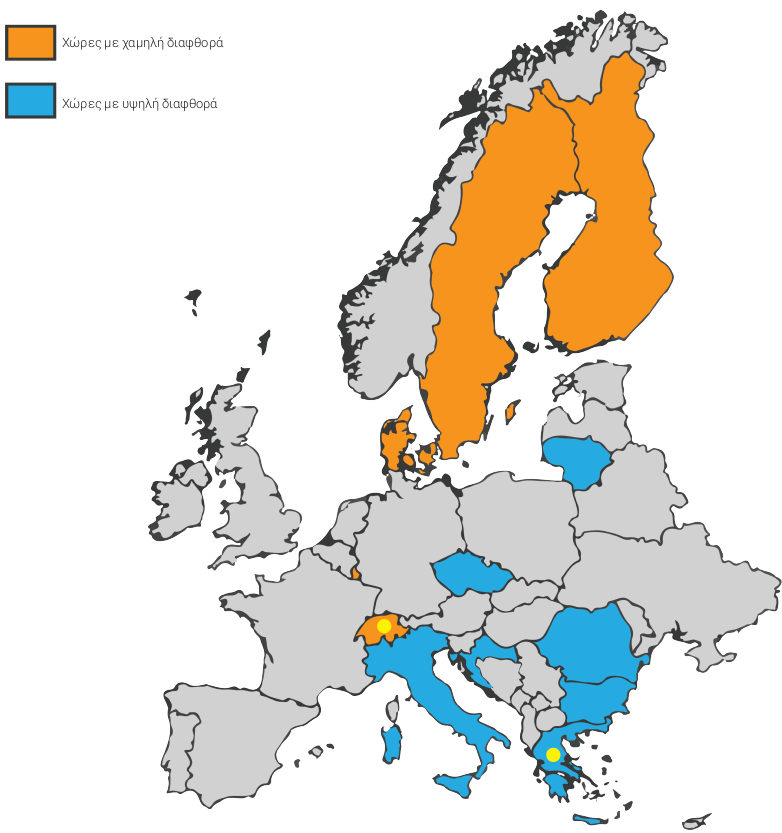
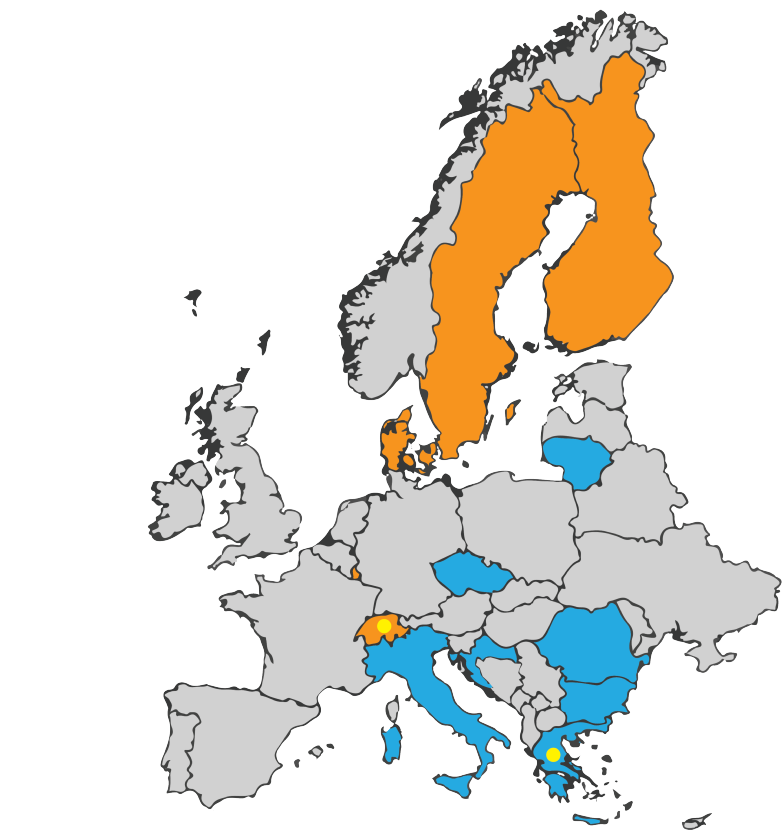
euro map legents was separated

Changed region(s): [[0.0, 0.0312, 0.2762, 0.1561]]

diff --git a/html/index.html b/html/index.html
@@ -250,7 +250,11 @@
 
 <div class="row padding-top padding-bottom">
     <div class="col-lg-12">
-       <div class="box"> <img src="res/europe_map.png" class="euro-map"></div>
+        <!--<div class="box"> <img src="res/europe_map_tags.png" class="euro-map-tags"></div>-->
+       <div class="box">
+           <img src="res/europe_map_tags.png" class="euro-map-tags">
+           <img src="res/europe_map.png" class="euro-map">
+       </div>
     </div>
 </div>
 <!---/MAP--->

diff --git a/html/css/styles.css b/html/css/styles.css
@@ -17,7 +17,11 @@ h3, .h3 {
 
 .euro-map{
     width: 50%;
-    margin-left: 25%;
+    /*margin-left: 25%;*/
+}
+.euro-map-tags{
+    width: 25%;
+    margin-left: 10%;
 }
 .float-right{
     float: right;
